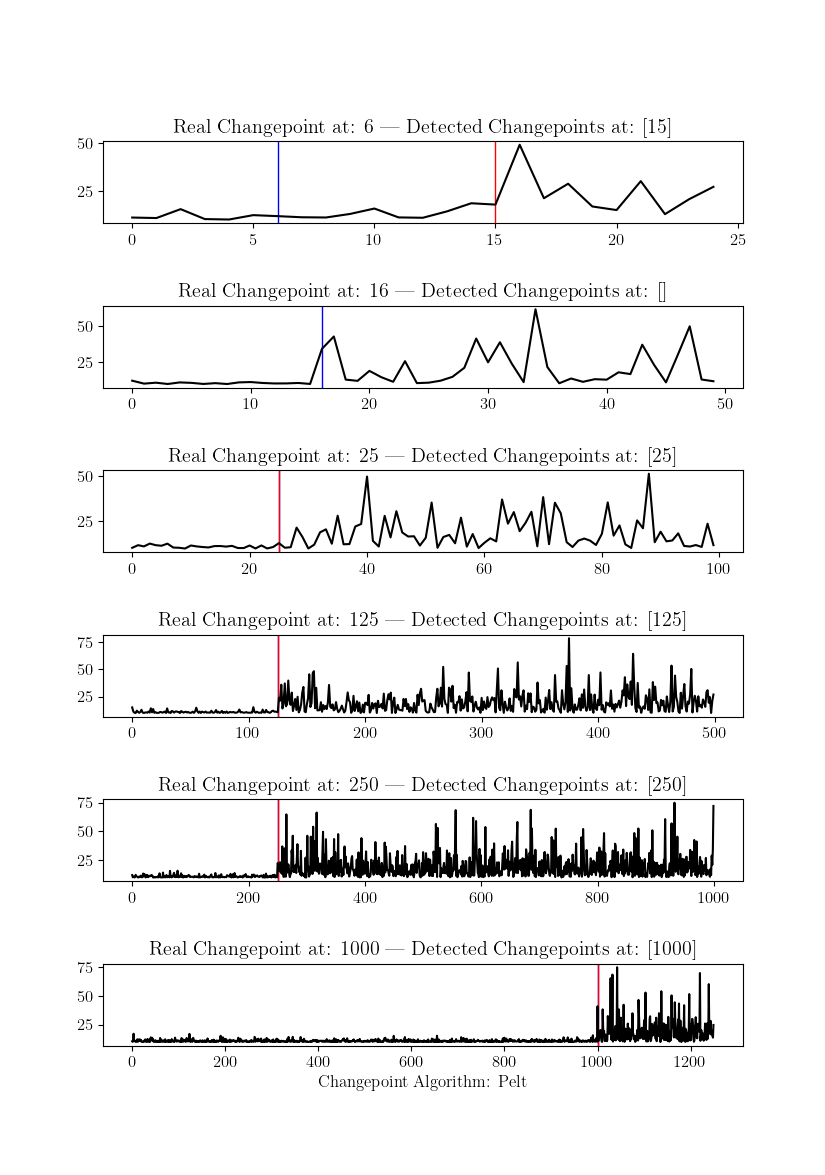
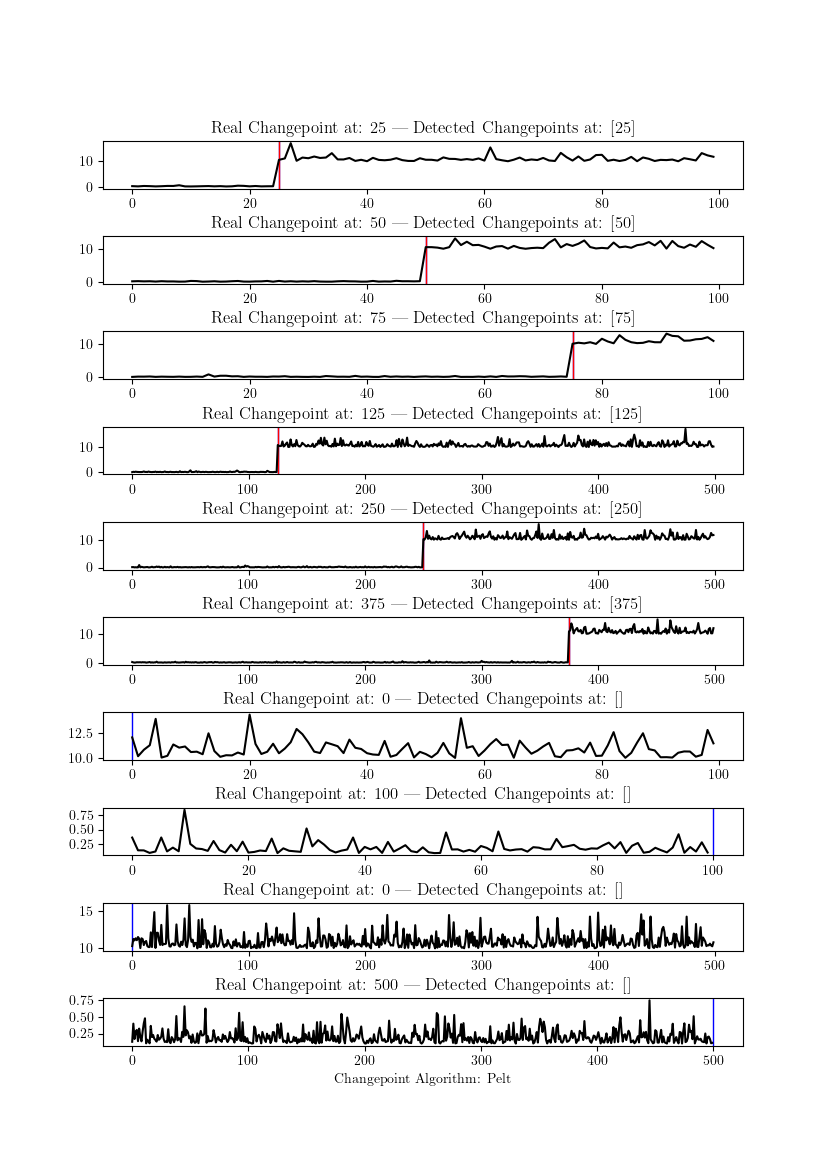
latest push

diff --git a/main.py b/main.py
@@ -1,25 +1,35 @@
 # https://stackoverflow.com/questions/8409095/set-markers-for-individual-points-on-a-line-in-matplotlib
 # https://jeremy9959.net/Blog/bayesian-online-changepoint-fixed/
 
+# General libs
 import scipy.stats as ss
 import numpy as np
 import matplotlib.pyplot as plt
 from functools import partial
 from collections import defaultdict
 import random
+import time
+import pandas as pd
+from tabulate import tabulate
 
+
+# Changepoint libs
 import bayesian_changepoint_detection.bayesian_changepoint_detection.online_changepoint_detection as oncd
-from bocd.bocd.bocd import *
-from bocd.bocd.distribution import *
+# from bocd.bocd.bocd import *
+# from bocd.bocd.distribution import *
 from bocd.bocd.hazard import *
 import changefinder
 import ruptures as rpt
 
 
-NUM_POINTS = [25,50,100,500,1000,1250]
-CHANGEPOINT_LOCATIONS = [6,16,25,125,250,1000]
+# NUM_POINTS = [25,50,100,500,1000,1250]
+# CHANGEPOINT_LOCATIONS = [6,16,25,125,250,1000]
+CHANGEPOINT_LOCATIONS = [25, 50, 75, 125, 250, 375,
+                         0, 100, 0, 500] # cases where there are no changepoints
+NUM_POINTS = [100, 100, 100, 500, 500, 500,
+              100, 100, 500, 500] # cases where there are no changepoints
 t1 = 10
-t2 = 1000
+t2 = 100
 lambda1 = 1
 lambda2 = 10
 RANDOM_SEED = 2222
@@ -143,6 +153,46 @@ def generate_truncated_exp(n, c, ts = (t1,t2), lambdas = (lambda1, lambda2)):
     return data
 
 
+def F_exp(x, lambda_):
+    return 1 - np.exp(-lambda_ * x)
+
+
+def F_exp_inverse(x, lambda_):
+    return (-1) * (1 / lambda_) * np.log(1 - x)
+
+
+def generated_truncated_exp_inverse_uniform_sampling(n, c, t1, t2, lambda1, lambda2):
+    """
+    https://stackoverflow.com/questions/40143718/python-scipy-truncated-exponential-distribution
+
+    :param n: length of time series
+    :param c: changepoint location
+    :param t1: parameter of truncated exponential
+    :param t2:
+    :param lambdas: rate para
+    :return:
+    """
+
+    # Generate a uniform random variable U ~ Uniform([F_exp(a),F_exp(b)]
+    u1 = np.random.uniform(F_exp(t1,1/lambda2),F_exp(t2,1/lambda2), size = c)
+    # Now, take F^(-1)(u)
+    X1 = F_exp_inverse(u1,lambda2)
+
+    u2 = np.random.uniform(F_exp(t1, 1/lambda1), F_exp(t2, 1/lambda1), size=n-c)
+    X2 = F_exp_inverse(u2,lambda1)
+
+    series = np.concatenate((X1,X2))
+    data = defaultdict()
+    data['series'] = series
+    data['c'] = c
+    data['n'] = n
+    data['ts'] = [t1,t2]
+    data['lambdas'] = [lambda1, lambda2]
+    data['distribution'] = ss.truncexpon
+    data['detected_changepoints'] = dict()
+    return data
+
+
 def L1TF(signal):
     import numpy as np
     import cvxpy as cp
@@ -204,8 +254,14 @@ if __name__ == "__main__":
 
     data_list = list()
 
+    benchmark_list = list()
+    # and each element of the list contains: "AlgorithmName", "NumPoints", "ChangepointLocation", "ExecutionTime"
+
     for i in range(len(NUM_POINTS)):
-        tmp_data = generate_truncated_exp(NUM_POINTS[i], CHANGEPOINT_LOCATIONS[i])
+        # tmp_data = generate_truncated_exp(NUM_POINTS[i], CHANGEPOINT_LOCATIONS[i])
+        tmp_data = generated_truncated_exp_inverse_uniform_sampling(NUM_POINTS[i],
+                                                                    CHANGEPOINT_LOCATIONS[i],
+                                                                    t1,t2,lambda1,lambda2)
         data_list.append(tmp_data)
 
     plot_multiple_data(data_list)
@@ -295,8 +351,15 @@ if __name__ == "__main__":
         }
 
         for a in RUPTURES_ALGORITHMS.keys():
+            start_time = time.time()
             algo = RUPTURES_ALGORITHMS[a]['function'](**RUPTURES_ALGORITHMS[a]['model_params']).fit(signal)
             my_bkps = algo.predict(**RUPTURES_ALGORITHMS[a]['predict_params'])
+            end_time = time.time() - start_time
+            benchmark_list.append({"AlgorithmName": a,
+                                   "TimeSeriesID": i,
+                                   "NumPoints": NUM_POINTS[i],
+                                   "ChangepointLocation": CHANGEPOINT_LOCATIONS[i],
+                                   "ExecutionTime":end_time})
             print(a)
             print(my_bkps)
             data_list[i]['detected_changepoints'].update({a: my_bkps})
@@ -305,9 +368,11 @@ if __name__ == "__main__":
         # # # # # # BAYESIAN ONLINE CHANGEPOINT DETECTION # # # # # #
         # # # # # # # # # # # # # # # # # # # # # # # # # # # # # # #
 
+        start_time = time.time()
         R, maxes = oncd.online_changepoint_detection(signal,
                                                      hazard_func=partial(oncd.constant_hazard, 500),
                                                      observation_likelihood=oncd.StudentT(0.1, .01, 1, 0))
+        end_time = time.time() - start_time
         Nw = 10
         all_cp_probs = R[Nw, Nw:-1]
         idx_changes = np.where(np.diff(maxes) < 0)[0]
@@ -317,6 +382,11 @@ if __name__ == "__main__":
         top_n_changepoints = list(all_cp_probs.argsort()[-Num_CP:][::-1])
 
         data_list[i]['detected_changepoints'].update({'BayesianOnlineChangePointDetection': top_n_changepoints})
+        benchmark_list.append({"AlgorithmName": "BayesianOnlineChangePointDetection",
+                               "TimeSeriesID": i,
+                               "NumPoints": NUM_POINTS[i],
+                               "ChangepointLocation": CHANGEPOINT_LOCATIONS[i],
+                               "ExecutionTime": end_time})
 
         # # # # # # # # # # # # # # # # # # # # # # # # # # # # # # #
         # # # # # # # # # # # # CHANGEFINDER  # # # # # # # # # # # #
@@ -325,6 +395,8 @@ if __name__ == "__main__":
         smooth = int(0.05 * signal.shape[0])
         if smooth <= 3:
             smooth = 3
+
+        start_time = time.time()
         cf = changefinder.ChangeFinder(r=0.01, order=1, smooth=smooth)
 
         ret = []
@@ -332,9 +404,17 @@ if __name__ == "__main__":
             score = cf.update(j)
             ret.append(score)
 
+        end_time = time.time() - start_time
+
         Num_CP = 2
         top_n_changepoints = list(np.array(ret).argsort()[-Num_CP:][::-1])
         data_list[i]['detected_changepoints'].update({'ChangeFinder': top_n_changepoints})
+
+        benchmark_list.append({"AlgorithmName": "ChangeFinder",
+                               "TimeSeriesID": i,
+                               "NumPoints": NUM_POINTS[i],
+                               "ChangepointLocation": CHANGEPOINT_LOCATIONS[i],
+                               "ExecutionTime": end_time})
 
         if PLOT_CHANGEFINDER:
             fig = plt.figure()
@@ -367,6 +447,25 @@ if __name__ == "__main__":
     LIST_OF_ALGORITHMS = ['Pelt', 'DynamicProgramming', 'BinarySegmentation', 'BottomUpSegmentation', 'WindowBased', 'BayesianOnlineChangePointDetection', 'ChangeFinder']
     for algorithm in LIST_OF_ALGORITHMS:
         plot_multiple_data_by_algorithm(data_list, algorithm)
+
+    df_benchmark = pd.DataFrame(benchmark_list)
+    pdtabulate = lambda df: tabulate(df, headers='keys', tablefmt='latex')
+    print(pdtabulate(df_benchmark.loc[:35]))
+    print(pdtabulate(df_benchmark.loc[36:]))
+
+    # AlgorithmName #Paper #Code
+    ref_list = [
+        ['Pelt', "REFERENCE", "CODE"],
+         ['DynamicProgramming', "REFERENCE", "CODE"],
+         ['BinarySegmentation', "REFERENCE", "CODE"],
+         ['BottomUpSegmentation', "REFERENCE", "CODE"],
+         ['WindowBased', "REFERENCE", "CODE"],
+         ['BayesianOnlineChangePointDetection', "REFERENCE", "CODE"],
+         ['ChangeFinder', "REFERENCE", "CODE"]
+    ]
+    ref_df = pd.DataFrame(ref_list,columns=['AlgorithmName','Paper','Code'])
+    print(pdtabulate(ref_df))
+
 
 
 
